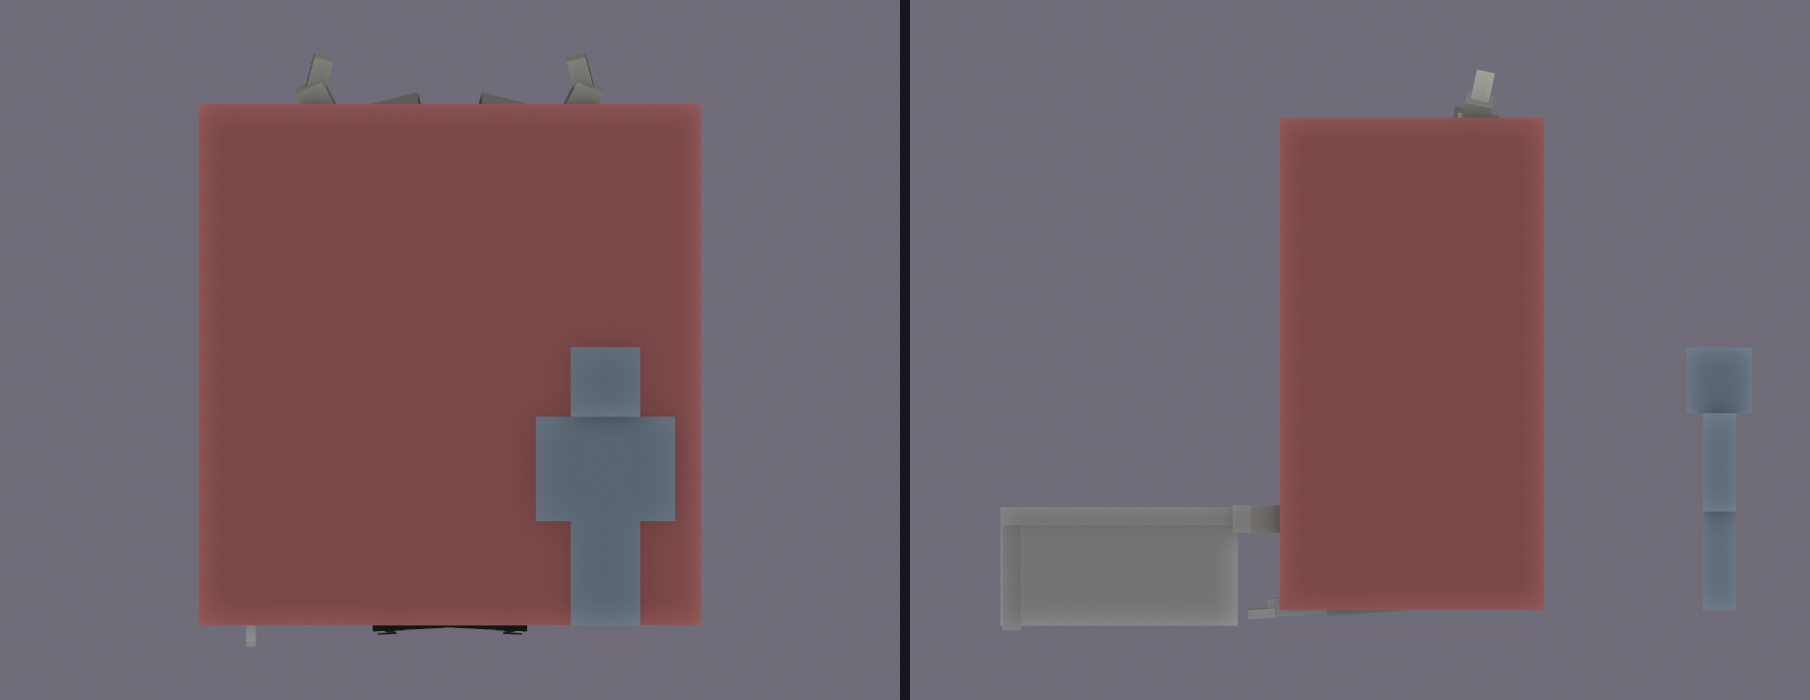
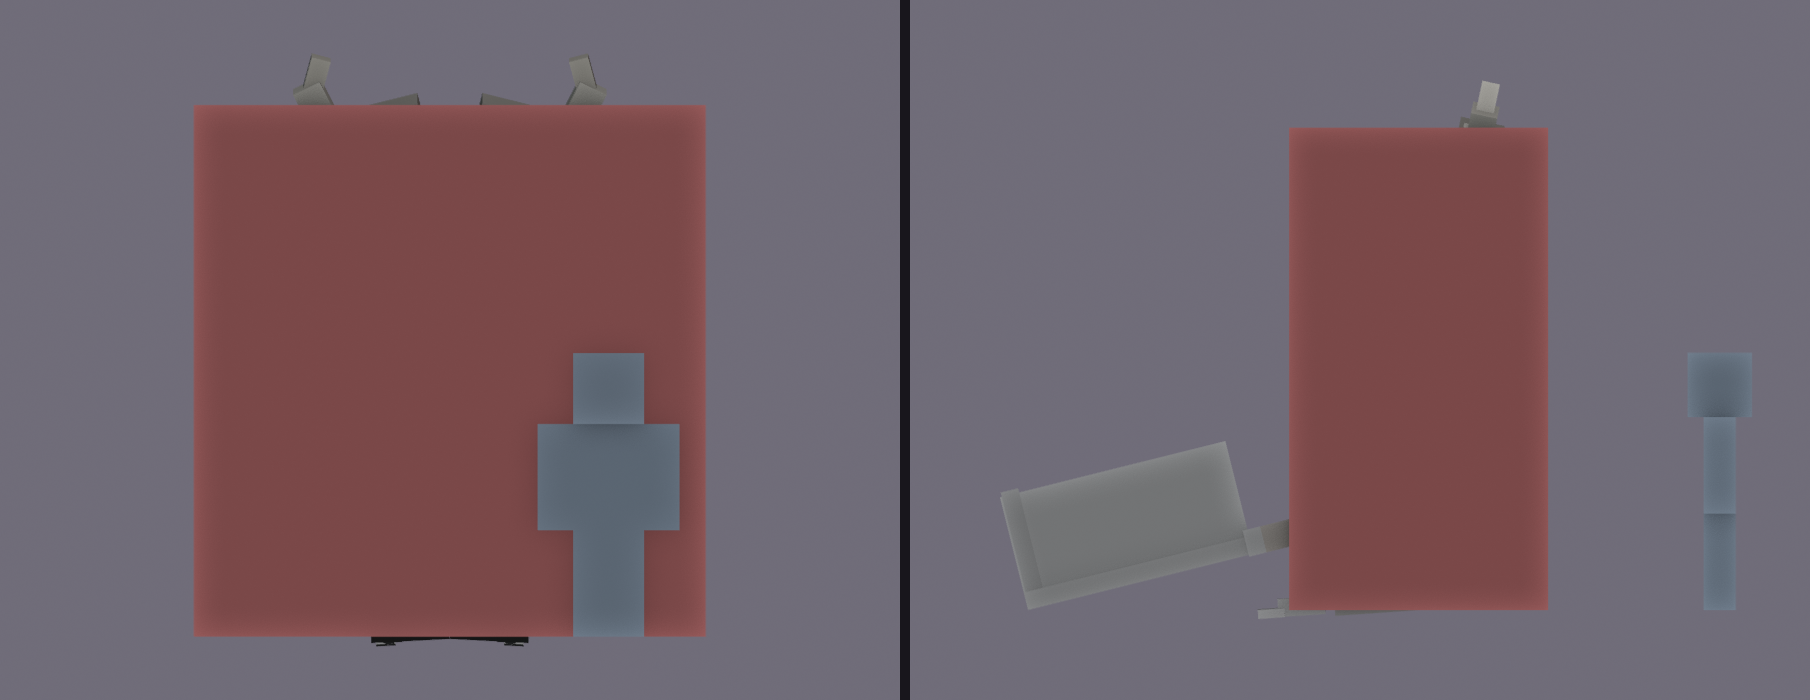
The Unbound session 2: the cleaver flipped - its edge leads the sweep (the spine led it before), edge up in the drag and the wind-up

diff --git a/tools/art/bosses/unbound_s2.py b/tools/art/bosses/unbound_s2.py
@@ -89,7 +89,10 @@ def swing_edge(handle):
     """The edge faces where the overhead chop carries it: in his front-back plane, at right angles to the handle,
     turning from behind his shoulder over the top to the front and down (front is -z)."""
     hx, hy, hz = handle
-    return (0.0, -hz, hy)          # (forward, up) = (-hz, hy) turned a quarter forward: up becomes forward
+    # in his (forward, up) plane the handle points (f, u) = (-hz, hy); the chop turns it up -> forward -> down, so
+    # the blade moves (u, -f): forward = hy, up = hz, which is (y, z) = (hz, -hy) in model space (front is -z).
+    # (Session 2's first take had this sign backwards: the spine led the sweep.)
+    return (0.0, hz, -hy)
 
 
 def translate(model, d):

diff --git a/docs/art/bosses/the_unbound/overhaul/s2_design/README.md b/docs/art/bosses/the_unbound/overhaul/s2_design/README.md
@@ -42,7 +42,7 @@ bone that holds other parts.
 
 **Counts:** 122 cubes and 21 bones with geometry, so about 21 displays. Full list: [parts.md](parts.md).
 
-**How the cleaver is held:** its edge faces where the swing carries it in every pose:
+**How the cleaver is held** (flipped after the user's review: the first take led the sweep with the spine): its edge faces where the swing carries it in every pose:
 - up while he drags it;
 - up behind his shoulder in the wind-up;
 - down and forward at the end of the sweep.
